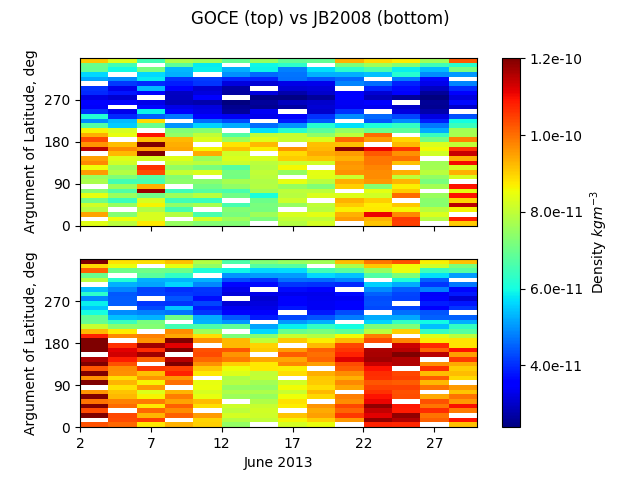
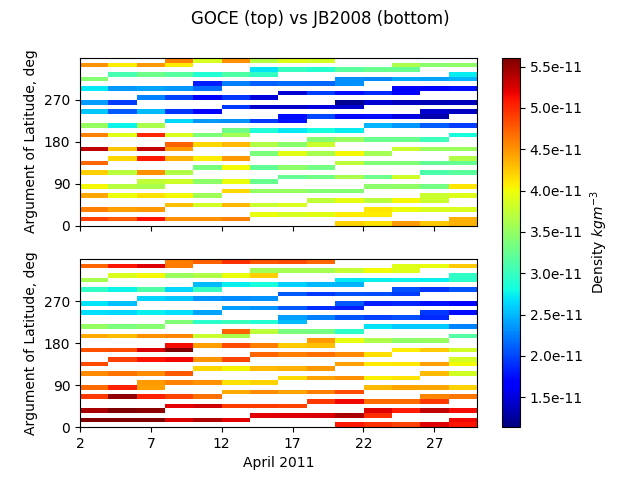
Validating for a second date

diff --git a/validation_goce_mission/analysis.py b/validation_goce_mission/analysis.py
@@ -18,9 +18,12 @@ parser.add_argument(
 )
 args = parser.parse_args()
 
+filename = "goce_denswind_ac082_v2_0_2013-06.txt"
+filename = 'goce_denswind_ac082_v2_0_2011-04.txt'
+
 # Read the GOCE data file into dataframe
 df_goce = pd.read_csv(
-    "goce_denswind_ac082_v2_0_2013-06.txt", sep="\s+", comment="#", header=None
+   filename, sep="\s+", comment="#", header=None
 )
 
 # Name the columns
@@ -71,8 +74,8 @@ df_goce = df_goce.drop(
 # Isolate 2 weeks centred on our date of interest: 15th June 2013
 start_day = 2
 stop_day = 30
-month = 6
-year = 2013
+month = 4
+year = 2011
 start_date = datetime.datetime(year, month, start_day)
 stop_date = datetime.datetime(year, month, stop_day)
 df_goce = df_goce[
@@ -89,7 +92,7 @@ df_goce = df_goce.iloc[::reduction_factor, :]
 
 # Fetch geomagnetic indices from local file for the same year and month
 # One or more space is considered a separator
-df_Kp = pd.read_csv("kp1306.tab", sep="\s+", comment="#", header=None)
+df_Kp = pd.read_csv("kp1104.tab", sep="\s+", comment="#", header=None)
 #
 df_Kp.columns = [
     "date",
@@ -136,7 +139,7 @@ df_goce["Ap"] = [
 # Create radio flux lookup dataframe for the month
 
 # Fetch radio flux data for this year from local file
-df_f107 = pd.read_csv("2013_DSD.txt", sep="\s+", comment="#", header=None)
+df_f107 = pd.read_csv("2011_DSD.txt", sep="\s+", comment="#", header=None)
 
 df_f107.columns = [
     "year",
@@ -286,6 +289,35 @@ densities = stats.binned_statistic_2d(
     bins=(tds, arg_lats),
 )
 
+# initialise the profile plot
+fig_prof = plt.figure()
+ax_prof = fig_prof.add_subplot(111)
+ax_prof.set_xlabel(datetime.date(year, month, 1).strftime("%B %Y"))
+ax_prof.set_ylabel("Density " + r"$kgm^{-3}$")
+
+midlat_index = np.searchsorted(arg_lats, 180)
+
+arg_lat_of_interest = arg_lats[midlat_index]
+
+ax_prof.plot(tds[:-1], densities.statistic.T[midlat_index, :], label="GOCE")
+
+
+labels = [item.get_text() for item in ax_prof.get_xticklabels()]
+
+def format_func(value, tick_number):
+    """
+    Function to convert tick labels from seconds elapsed to 
+    day of date.
+    
+    """
+    return start_day + int(value / seconds_per_day)
+
+ax_prof.xaxis.set_major_formatter(plt.FuncFormatter(format_func))
+
+fig_prof.suptitle(
+    "Argument of latitude {0:.2f} deg".format(arg_lat_of_interest), fontsize=12
+)
+
 # Calculate NRLMSISE-00 model densities using the API
 
 for endpoint in ["nrlmsise00", "jb2008"]:
@@ -351,42 +383,11 @@ for endpoint in ["nrlmsise00", "jb2008"]:
 
     # Now plot the profiles for a particular argument latitude
 
-    # TODO functionise this to plot for different arg of lats
-
-    fig_prof = plt.figure()
-    ax_prof = fig_prof.add_subplot(111)
-    ax_prof.set_xlabel(datetime.date(year, month, 1).strftime("%B %Y"))
-    ax_prof.set_ylabel("Density " + r"$kgm^{-3}$")
-
-    midlat_index = np.searchsorted(arg_lats, 180)
-
-    arg_lat_of_interest = arg_lats[midlat_index]
-
-    ax_prof.plot(tds[:-1], densities.statistic.T[midlat_index, :], label="GOCE")
-
     ax_prof.plot(
         tds[:-1], densities_api.statistic.T[midlat_index, :], label=endpoint.upper()
     )
 
-    labels = [item.get_text() for item in ax_prof.get_xticklabels()]
 
+ax_prof.legend()
 
-    def format_func(value, tick_number):
-        """
-        Function to convert tick labels from seconds elapsed to 
-        day of date.
-        
-        """
-        return start_day + int(value / seconds_per_day)
-
-
-    ax_prof.xaxis.set_major_formatter(plt.FuncFormatter(format_func))
-
-    ax_prof.legend()
-
-    fig_prof.suptitle(
-        "Argument of latitude {0:.2f} deg".format(arg_lat_of_interest), fontsize=12
-    )
-
-    fig_prof.savefig("Density_vs_day_AOL_{}_{}.png".format(
-        int(arg_lat_of_interest), endpoint.upper()))
+fig_prof.savefig("Density_vs_API_AOL_{}.png".format(int(arg_lat_of_interest)))
